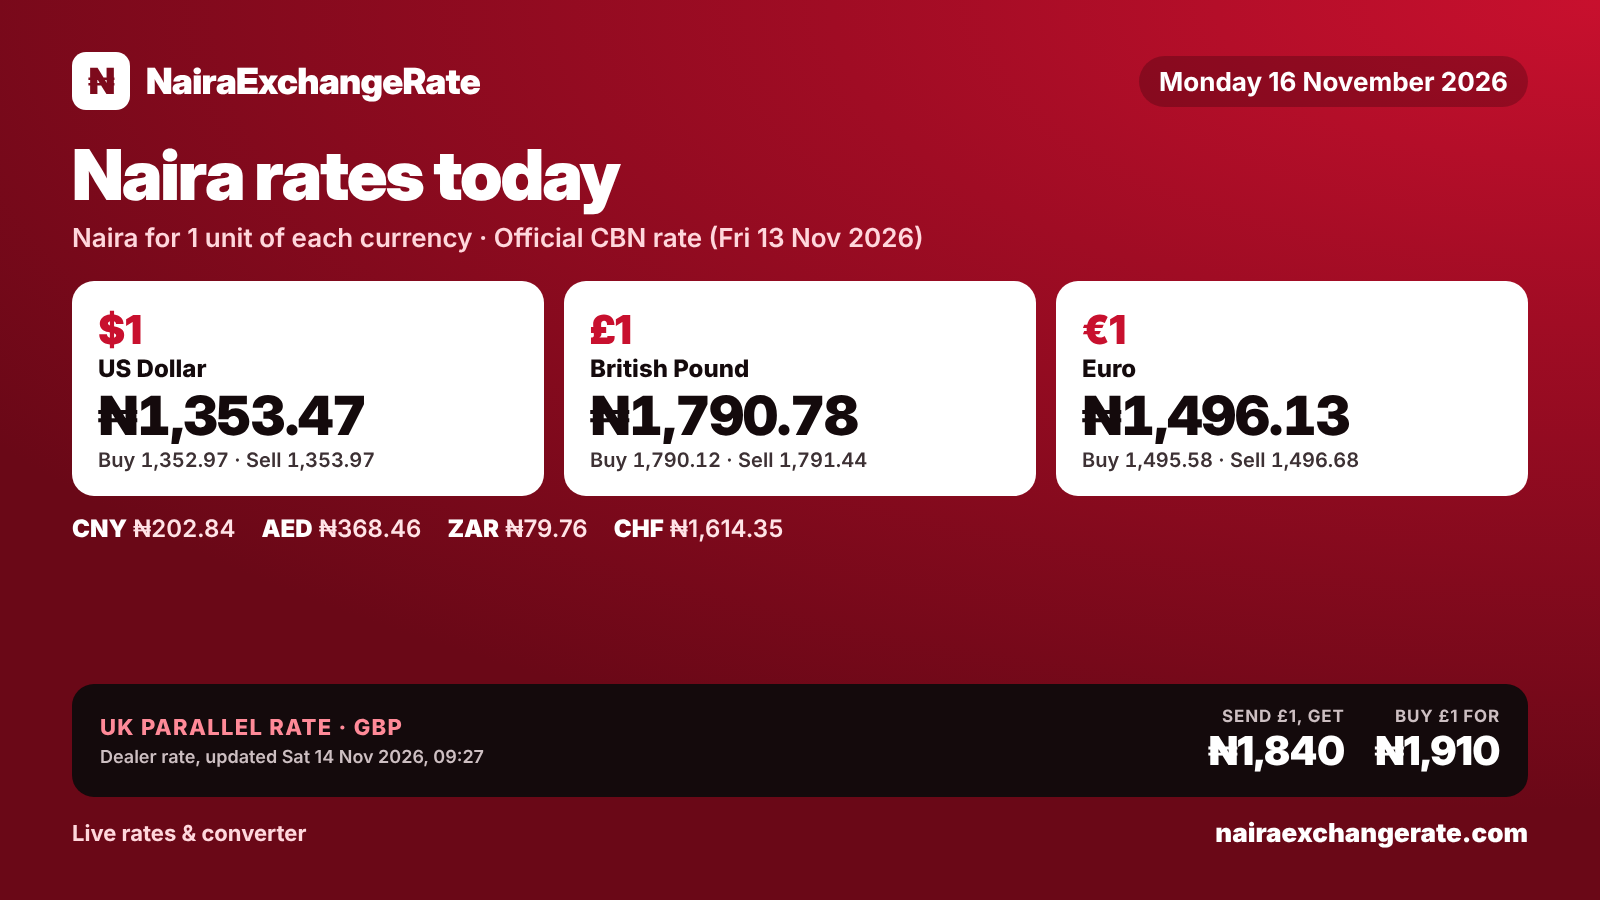
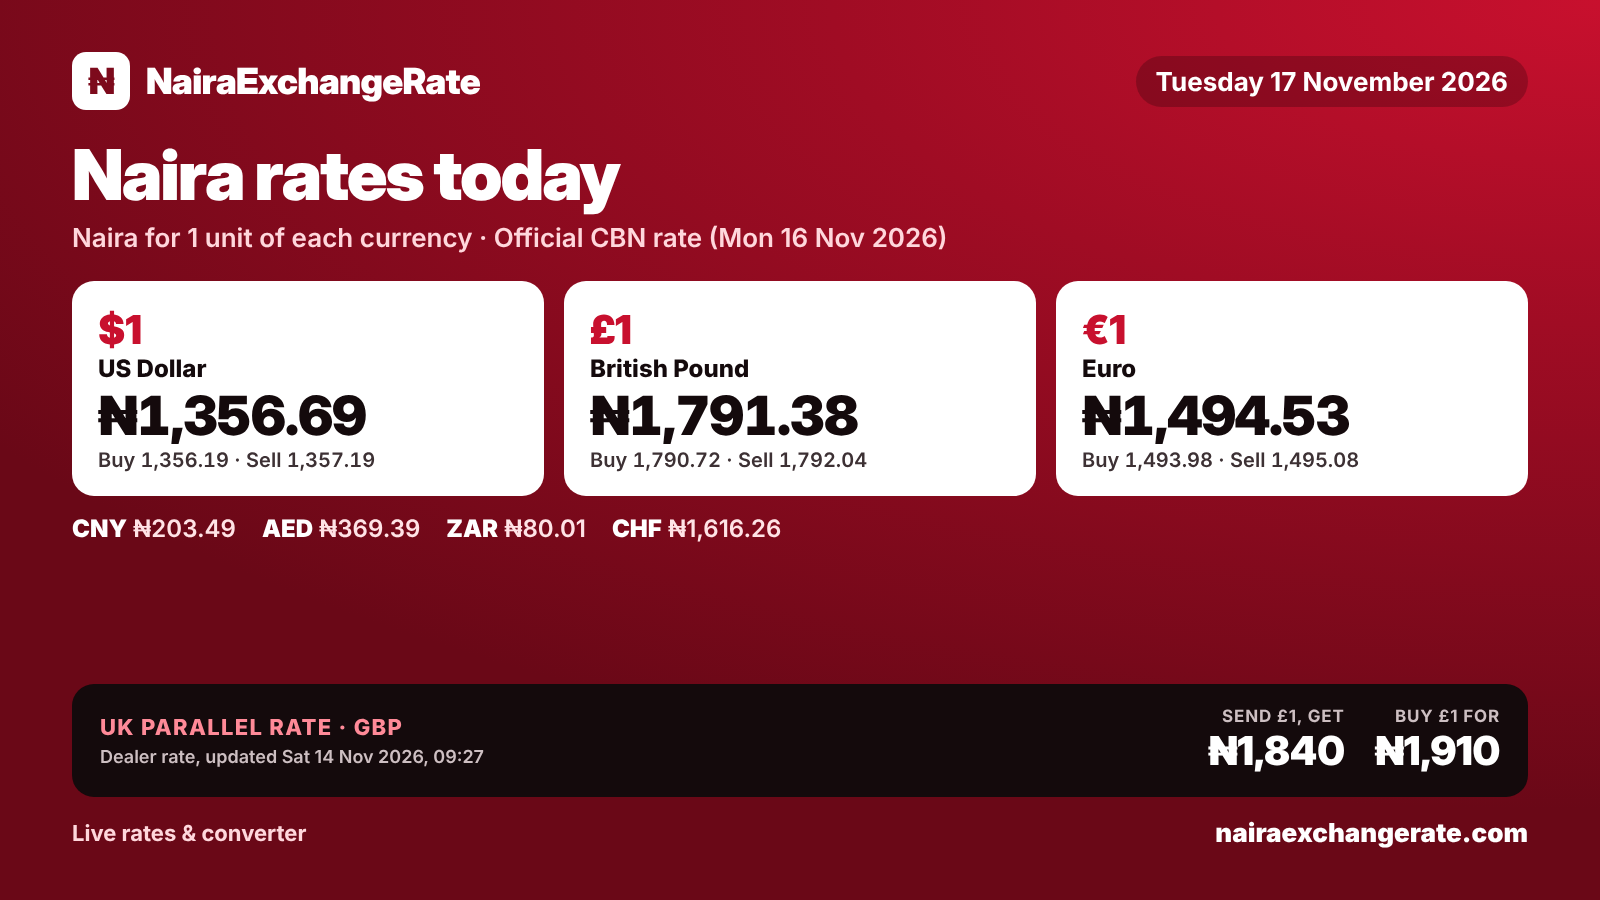
Daily update 2026-11-17
Claude-Session: https://claude.ai/code/session_01NfXuJsrbmjRHM9ZaiYWUXo

diff --git a/index.html b/index.html
@@ -348,61 +348,82 @@ footer .wrap{padding-block:22px 34px;font-size:.84rem;color:var(--muted);display
     }
   ],
   "cbn": {
-    "date": "2026-11-13",
+    "date": "2026-11-16",
     "rates": {
       "xof": {
-        "buy": 2.2696,
-        "middle": 2.2796,
-        "sell": 2.2896
+        "buy": 2.2636,
+        "middle": 2.2736,
+        "sell": 2.2836
       },
       "cny": {
-        "buy": 202.7657,
-        "middle": 202.8406,
-        "sell": 202.9155
+        "buy": 203.4186,
+        "middle": 203.4936,
+        "sell": 203.5686
       },
       "eur": {
-        "buy": 1495.5776,
-        "middle": 1496.1303,
-        "sell": 1496.683
+        "buy": 1493.9811,
+        "middle": 1494.5319,
+        "sell": 1495.0827
       },
       "jpy": {
-        "buy": 8.4577,
-        "middle": 8.4608,
-        "sell": 8.4639
+        "buy": 8.5006,
+        "middle": 8.5038,
+        "sell": 8.5069
       },
       "sar": {
-        "buy": 360.4951,
-        "middle": 360.6283,
-        "sell": 360.7615
+        "buy": 361.4103,
+        "middle": 361.5435,
+        "sell": 361.6767
       },
       "zar": {
-        "buy": 79.7316,
-        "middle": 79.7611,
-        "sell": 79.7906
+        "buy": 79.9807,
+        "middle": 80.0101,
+        "sell": 80.0396
       },
       "chf": {
-        "buy": 1613.7573,
-        "middle": 1614.3536,
-        "sell": 1614.95
+        "buy": 1615.6683,
+        "middle": 1616.264,
+        "sell": 1616.8597
       },
       "gbp": {
-        "buy": 1790.12,
-        "middle": 1790.7816,
-        "sell": 1791.4431
+        "buy": 1790.7159,
+        "middle": 1791.3761,
+        "sell": 1792.0363
       },
       "usd": {
-        "buy": 1352.9741,
-        "middle": 1353.4741,
-        "sell": 1353.9741
+        "buy": 1356.192,
+        "middle": 1356.692,
+        "sell": 1357.192
       },
       "aed": {
-        "buy": 368.3266,
-        "middle": 368.4627,
-        "sell": 368.5988
+        "buy": 369.2529,
+        "middle": 369.389,
+        "sell": 369.5252
       }
     }
   },
   "news": [
+    {
+      "source": "BusinessDay",
+      "title": "Inflation slows to six-year low in boost for likely rate cut",
+      "summary": "NBS data shows headline inflation eased to 14.06% in October from 14.63% in September, strengthening the case for a CBN rate cut.",
+      "url": "https://businessday.ng/business-economy/article/inflation-slows-to-six-year-low-in-boost-for-likely-rate-cut/",
+      "date": "2026-11-16"
+    },
+    {
+      "source": "P.M. News",
+      "title": "Dangote Refinery cuts petrol price by N51 per litre",
+      "summary": "Dangote lowered its petrol gantry price from N1,210 to N1,159 per litre, a 4.2% cut.",
+      "url": "https://pmnewsnigeria.com/2026/11/16/dangote-refinery-cuts-petrol-price-by-n51-per-litre/",
+      "date": "2026-11-16"
+    },
+    {
+      "source": "P.M. News",
+      "title": "Naira struggles against dollar as new week trading begins",
+      "summary": "The naira opened the week at N1,353.97/$ officially, while parallel-market dealers sold at about N1,390/$.",
+      "url": "https://pmnewsnigeria.com/2026/11/16/naira-struggles-against-dollar-as-new-week-trading-begins/",
+      "date": "2026-11-16"
+    },
     {
       "source": "Legit.ng",
       "title": "CBN Unveils New Dollar Rate as Naira Loses N7 in the Official Window",
@@ -423,27 +444,6 @@ footer .wrap{padding-block:22px 34px;font-size:.84rem;color:var(--muted);display
       "summary": "Work has begun on the Afreximbank-backed $3.5bn port in Cross River, meant to ease pressure on Lagos, which handles over 80% of Nigeria's foreign trade.",
       "url": "https://www.premiumtimesng.com/business/business-news/925125-tinubu-flags-off-construction-of-3-5bn-bakassi-deep-seaport.html",
       "date": "2026-11-14"
-    },
-    {
-      "source": "P.M. News",
-      "title": "NGX records more gainers, fewer losers in weekly trading",
-      "summary": "The All-Share Index rose 1.36% over the week to 252,269.16, lifting market value to about N163.8 trillion as gainers outnumbered losers 43 to 39.",
-      "url": "https://pmnewsnigeria.com/2026/11/14/ngx-records-more-gainers-fewer-losers-in-weekly-trading/",
-      "date": "2026-11-14"
-    },
-    {
-      "source": "BusinessDay",
-      "title": "Dangote Refinery IPO draws nearly $1bn demand from African pension funds",
-      "summary": "South Africa's PIC and Nigerian pension managers have reportedly asked for close to $1 billion of shares in the refinery's N525-per-share offer, with allocation due on 17 November.",
-      "url": "https://businessday.ng/uncategorized/article/dangote-refinery-ipo-draws-nearly-1bn-demand-from-african-pension-funds/",
-      "date": "2026-11-13"
-    },
-    {
-      "source": "Legit.ng",
-      "title": "Petrol Prices Drop as Lagos Depots Cut Rates to N1,200, Diesel Falls to N1,688",
-      "summary": "Average Lagos depot petrol prices eased about 2.3% to N1,210 per litre, with the cheapest quote at N1,200, while diesel slipped to N1,688.",
-      "url": "https://www.legit.ng/business-economy/energy/1741139-petrol-prices-drop-lagos-depots-cut-rates-n1200-diesel-falls-n1688/",
-      "date": "2026-11-13"
     }
   ],
   "whatsappChannel": "https://whatsapp.com/channel/0029VbEJwXxCnA7nV3kcN73I"
